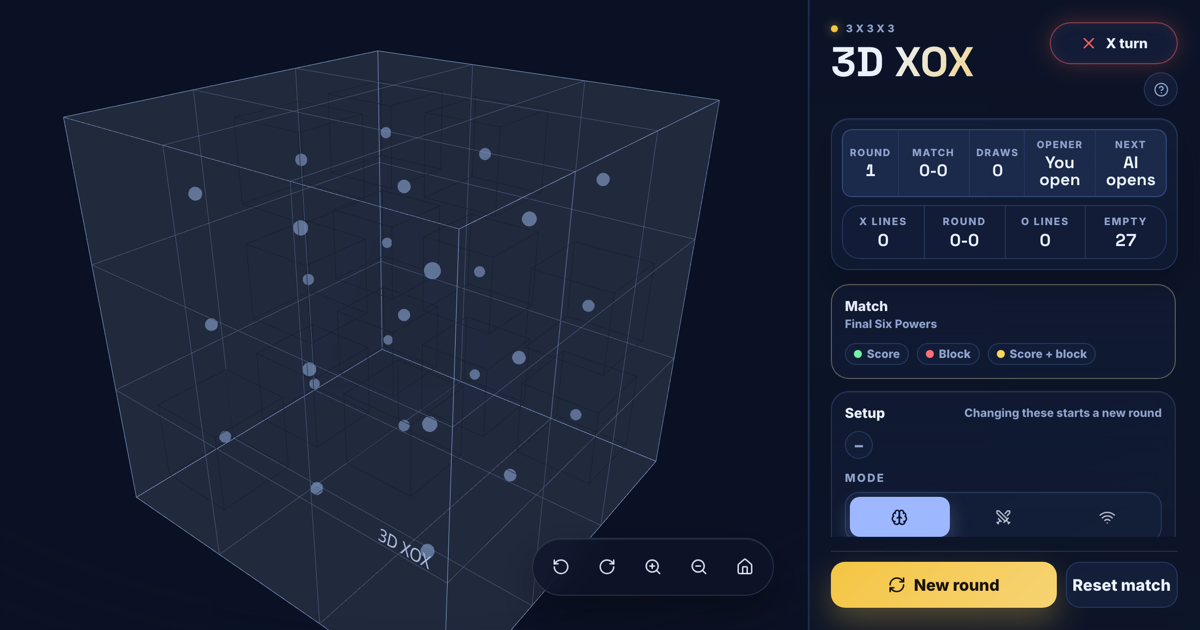
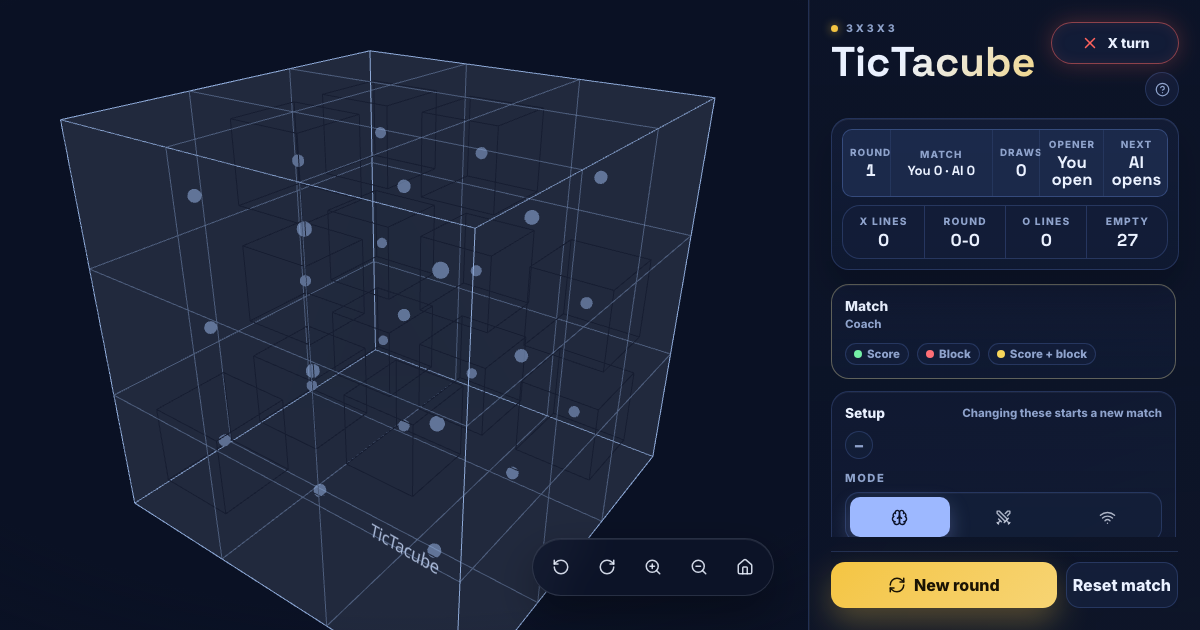
feat: rename player-facing brand to TicTacube

diff --git a/index.html b/index.html
@@ -5,13 +5,13 @@
     <meta name="viewport" content="width=device-width, initial-scale=1.0" />
     <meta
       name="description"
-      content="A mobile-friendly 3D XOX strategy game played on a 3x3x3 board."
+      content="A mobile-friendly TicTacube strategy game played on a 3x3x3 board."
     />
     <meta
       property="og:description"
-      content="A mobile-friendly 3D XOX strategy game played on a 3x3x3 board."
+      content="A mobile-friendly TicTacube strategy game played on a 3x3x3 board."
     />
-    <meta property="og:title" content="3D XOX" />
+    <meta property="og:title" content="TicTacube" />
     <meta property="og:type" content="website" />
     <meta property="og:url" content="https://www.tictacube.com/" />
     <meta property="og:image" content="https://www.tictacube.com/og-image.png" />
@@ -19,15 +19,15 @@
     <meta property="og:image:height" content="630" />
     <meta
       name="twitter:description"
-      content="A mobile-friendly 3D XOX strategy game played on a 3x3x3 board."
+      content="A mobile-friendly TicTacube strategy game played on a 3x3x3 board."
     />
     <meta name="twitter:card" content="summary_large_image" />
-    <meta name="twitter:title" content="3D XOX" />
+    <meta name="twitter:title" content="TicTacube" />
     <meta name="twitter:image" content="https://www.tictacube.com/og-image.png" />
     <meta name="theme-color" content="#0a1124" />
     <meta name="mobile-web-app-capable" content="yes" />
     <meta name="apple-mobile-web-app-capable" content="yes" />
-    <meta name="apple-mobile-web-app-title" content="3D XOX" />
+    <meta name="apple-mobile-web-app-title" content="TicTacube" />
     <link rel="manifest" href="/manifest.webmanifest" />
     <link rel="icon" type="image/svg+xml" href="/icon.svg" />
     <link
@@ -44,7 +44,7 @@
       type="font/woff2"
       crossorigin
     />
-    <title>3D XOX</title>
+    <title>TicTacube</title>
   </head>
   <body>
     <div id="root"></div>

diff --git a/src/game/puzzles.ts b/src/game/puzzles.ts
@@ -191,7 +191,7 @@ const createBestLinesPuzzle = (
     puzzleKey: createPuzzleKey(dateKey, 'best-lines'),
     prompt: 'Find the best Lines move',
     ruleset: 'lines',
-    shareText: `3D XOX Daily #${id} \u2014 solved in 1`,
+    shareText: `TicTacube Daily #${id} \u2014 solved in 1`,
     title: 'Best Lines move',
   };
 };
@@ -227,7 +227,7 @@ const createMaxLinesPuzzle = (
     puzzleKey: createPuzzleKey(dateKey, 'max-lines'),
     prompt: 'Score the most lines',
     ruleset: 'lines',
-    shareText: `3D XOX Daily #${id} \u2014 solved in 1`,
+    shareText: `TicTacube Daily #${id} \u2014 solved in 1`,
     title: 'Most lines',
   };
 };
@@ -255,7 +255,7 @@ const createClassicWinPuzzle = (
     puzzleKey: createPuzzleKey(dateKey, 'classic-win'),
     prompt: 'Find the Classic win',
     ruleset: 'classic',
-    shareText: `3D XOX Daily #${id} \u2014 solved in 1`,
+    shareText: `TicTacube Daily #${id} \u2014 solved in 1`,
     title: 'Classic finish',
   };
 };
@@ -283,7 +283,7 @@ const createClassicWinInTwoPuzzle = (
     puzzleKey: createPuzzleKey(dateKey, 'classic-win-two'),
     prompt: 'Find the Classic win in two',
     ruleset: 'classic',
-    shareText: `3D XOX Daily #${id} \u2014 solved in 1`,
+    shareText: `TicTacube Daily #${id} \u2014 solved in 1`,
     title: 'Win in two',
   };
 };

diff --git a/src/i18n.tsx b/src/i18n.tsx
@@ -36,7 +36,7 @@ const en = {
   'action.share': 'Share',
   'action.switch': 'Switch',
   'action.tryCoach': 'Try Coach',
-  'aria.board': '3D XOX board',
+  'aria.board': 'TicTacube board',
   'aria.boardControls': 'Board view controls',
   'aria.coachLegend': 'Coach legend',
   'aria.coachPrompt': 'Try Coach prompt',
@@ -297,7 +297,7 @@ const en = {
   'puzzle.floorBoard': 'Puzzle floor {floor}',
   'puzzle.resultMiss': 'Cell {cell} was the best move. {explanation}',
   'puzzle.resultSolved': 'Cell {cell} is right. {explanation}',
-  'puzzle.shareText': '3D XOX Daily #{id} - solved in 1',
+  'puzzle.shareText': 'TicTacube Daily #{id} - solved in 1',
   'puzzle.toMove': '{player} to move',
   'puzzle.winInTwo.title': 'Win in two',
   'puzzle.yourMove': 'Your move {cell}',
@@ -391,7 +391,7 @@ const tr = {
   'action.share': 'Paylaş',
   'action.switch': 'Değiştir',
   'action.tryCoach': 'Koçu dene',
-  'aria.board': '3D XOX tahtası',
+  'aria.board': 'TicTacube tahtası',
   'aria.boardControls': 'Tahta görünüm kontrolleri',
   'aria.coachLegend': 'Koç göstergesi',
   'aria.coachPrompt': 'Koçu dene uyarısı',
@@ -652,7 +652,7 @@ const tr = {
   'puzzle.floorBoard': 'Bulmaca katı {floor}',
   'puzzle.resultMiss': 'Hücre {cell} en iyi hamleydi. {explanation}',
   'puzzle.resultSolved': 'Hücre {cell} doğru. {explanation}',
-  'puzzle.shareText': '3D XOX Günlük #{id} - 1 hamlede çözüldü',
+  'puzzle.shareText': 'TicTacube Günlük #{id} - 1 hamlede çözüldü',
   'puzzle.toMove': 'Sıra {player}\'de',
   'puzzle.winInTwo.title': 'İki hamlede kazan',
   'puzzle.yourMove': 'Senin hamlen {cell}',

diff --git a/capacitor.config.ts b/capacitor.config.ts
@@ -2,7 +2,7 @@ import type { CapacitorConfig } from '@capacitor/cli';
 
 const config: CapacitorConfig = {
   appId: 'com.hugurozmen.xox3d',
-  appName: '3D XOX',
+  appName: 'TicTacube',
   webDir: 'dist',
 };
 

diff --git a/src/components/board-scene/SceneContent.tsx b/src/components/board-scene/SceneContent.tsx
@@ -385,7 +385,7 @@ export function SceneContent({
         position={[0, -2.48, 0]}
         rotation={[-0.3, 0, 0]}
       >
-        3D XOX
+        TicTacube
       </Text>
       <CameraRig layout={layout} />
       <CameraControls command={viewCommand} layout={layout} />

diff --git a/src/components/panel/PanelScoreboard.tsx b/src/components/panel/PanelScoreboard.tsx
@@ -58,7 +58,7 @@ export function PanelScoreboard({
       <header className="panel-header">
         <div>
           <p className="eyebrow">3x3x3</p>
-          <h1>3D XOX</h1>
+          <h1>TicTacube</h1>
         </div>
         <div className="header-side">
           <div

diff --git a/src/game/puzzles.test.ts b/src/game/puzzles.test.ts
@@ -51,7 +51,7 @@ describe('daily puzzle selection', () => {
     expect(result.bestMove).toBe(puzzle.bestMove);
     expect(result.move).toBe(puzzle.bestMove);
     expect(result.explanation).toContain('is right');
-    expect(result.shareText).toBe('3D XOX Daily #2 — solved in 1');
+    expect(result.shareText).toBe('TicTacube Daily #2 — solved in 1');
   });
 
   it('keeps a missed answer explanatory', () => {

diff --git a/src/game/rules.test.ts b/src/game/rules.test.ts
@@ -24,7 +24,7 @@ const boardFromString = (cells: string): Board =>
     return null;
   });
 
-describe('3D XOX rules engine', () => {
+describe('TicTacube rules engine', () => {
   it('defines exactly 49 unique lines from the canonical model', () => {
     const lines = getAllLines();
     const keys = new Set(lines.map(lineKey));